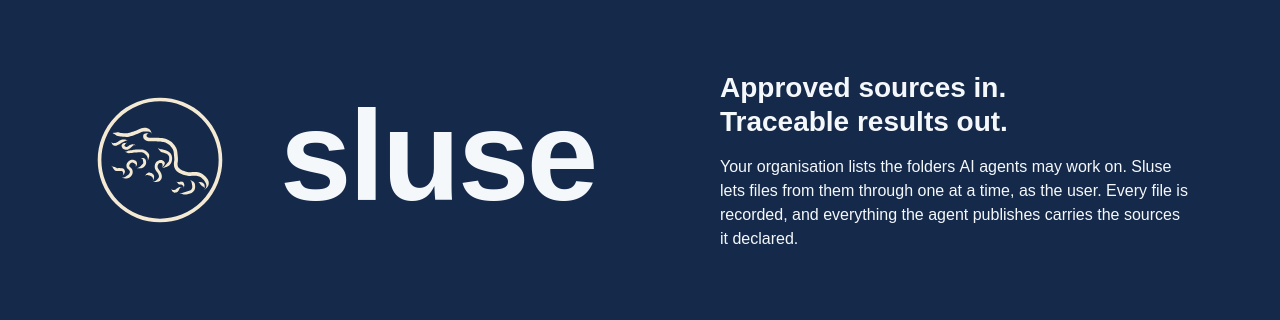
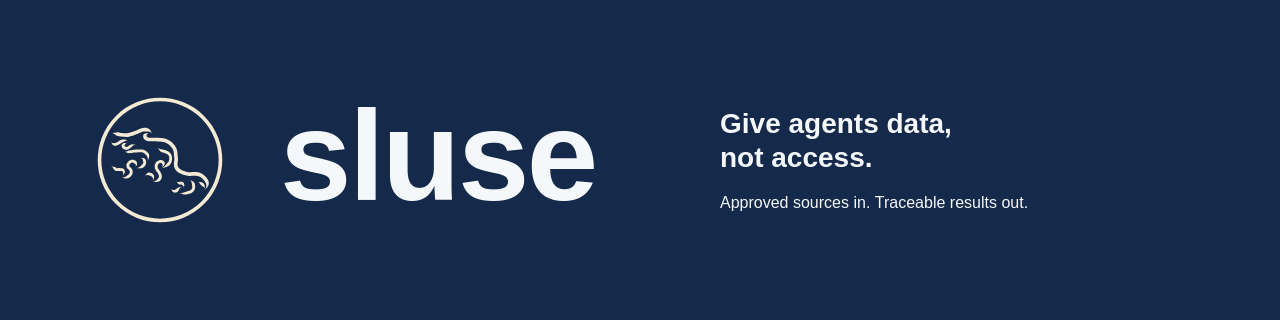
README header: Give agents data, not access.
Exported-from: Git-SerenIT/Sluse-Private@cb2241d025fbcb022cd992af55ab81a5609f6249

diff --git a/README.md b/README.md
@@ -1,4 +1,4 @@
-![Sluse. Approved sources in. Traceable results out. Your organisation lists the folders AI agents may work on. Sluse lets files from them through one at a time, as the user. Every file is recorded, and everything the agent publishes carries the sources it declared.](docs/images/header.png)
+![Sluse. Give agents data, not access. Approved sources in. Traceable results out.](docs/images/header.png)
 
 ## The short version
 
